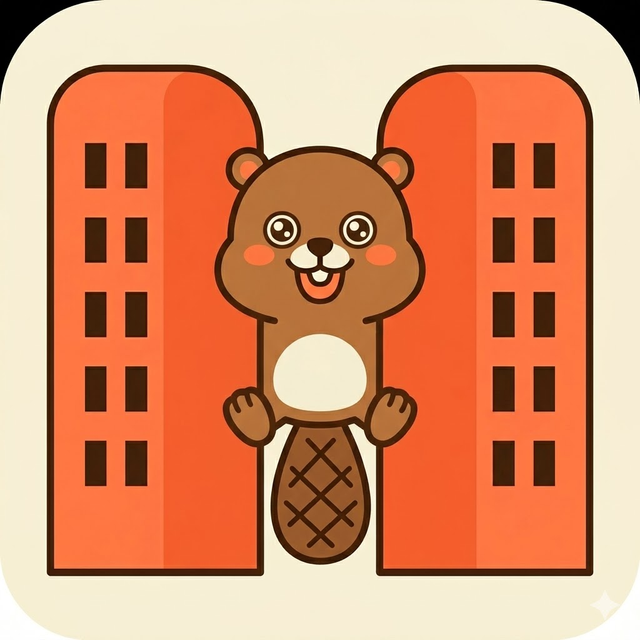
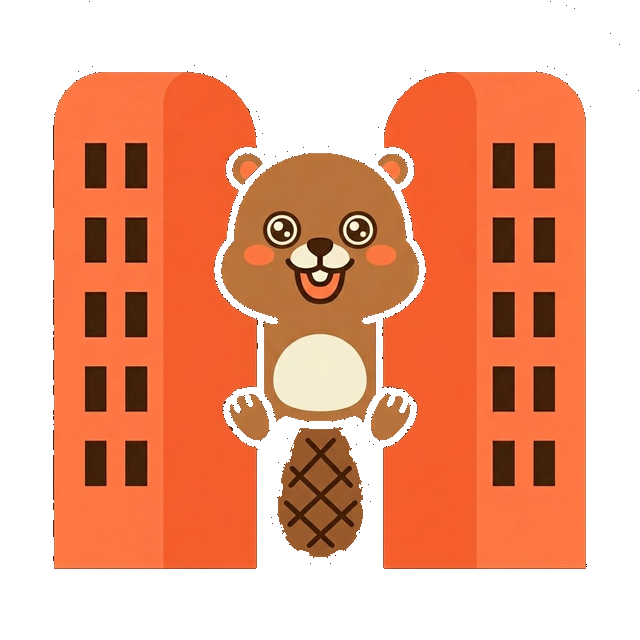
fix: 첫화면 비버 로고 배경 투명화 + 카피 순서 재배치
- biji-hero.png: 크림 배경·검정 모서리 제거(건물·비버만, 투명) → 페이지 배경에 자연스럽게
- LandingHero: "내 통장으로 / 비집고 / 살 집 찾기" 순서로 재배치(폰트·크기 유지)

diff --git a/src/components/LandingHero.tsx b/src/components/LandingHero.tsx
@@ -33,33 +33,37 @@ export function LandingHero({ onStart }: { onStart: () => void }) {
         }}
       />
 
-      {/* 비집고 로고 비지 — 아파트 사이를 비집고 들어가는 비버 + 등장 모션 */}
+      {/* 비집고 로고 비지 — 아파트 사이를 비집고 들어가는 비버 + 등장 모션 (투명 배경, 건물·비버만) */}
       <div className="biji-pop-in flex justify-center">
         {/* eslint-disable-next-line @next/next/no-img-element */}
         <img
-          src="/biji/biji-hero.png?v=1"
+          src="/biji/biji-hero.png?v=2"
           alt="비집고 비지 — 아파트 사이를 비집고"
           width={132}
           height={132}
-          className="h-32 w-32 rounded-3xl drop-shadow-md"
+          className="h-32 w-32 drop-shadow-md"
           draggable={false}
         />
       </div>
 
-      {/* 메인 캐치프레이즈 — 슬로건 */}
-      <h1
-        className="font-jua mt-2 text-[2.1rem] leading-[1.2] tracking-tight sm:text-[2.9rem]"
-        style={{ color: "#3a2c1d" }}
-      >
-        묻고 따지고 <span className="text-coral-600">비집고</span>
-      </h1>
-
-      {/* 서브 캐치프레이즈 — 무엇을 하는 서비스인지 */}
+      {/* 캐치프레이즈 — "내 통장으로 / 비집고 / 살 집 찾기" 순서 재배치 (각 줄 폰트·크기는 기존 그대로) */}
       <p
         className="font-jua mx-auto mt-2 text-[17px] sm:text-[19px]"
         style={{ color: "#6b6157" }}
       >
-        내 통장으로 살 집 찾기
+        내 통장으로
+      </p>
+      <h1
+        className="font-jua mt-1 text-[2.1rem] leading-[1.2] tracking-tight sm:text-[2.9rem]"
+        style={{ color: "#3a2c1d" }}
+      >
+        <span className="text-coral-600">비집고</span>
+      </h1>
+      <p
+        className="font-jua mx-auto mt-1 text-[17px] sm:text-[19px]"
+        style={{ color: "#6b6157" }}
+      >
+        살 집 찾기
       </p>
 
       {/* 예시 결과 미니카드 — 무엇을 받는지 미리 보여주기(가짜임을 명시) */}
